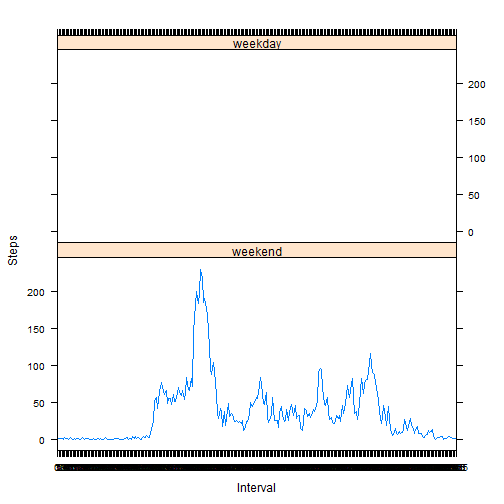
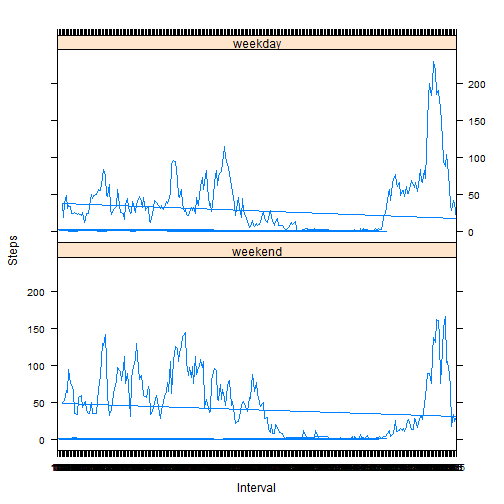
Latest changes

diff --git a/PA1_template.html b/PA1_template.html
@@ -207,7 +207,7 @@ hist(x, breaks = 10, col = &quot;yellow&quot;)
 
 <pre><code class="r">intv &lt;- as.factor(activity.complete.df[, &quot;interval&quot;])
 intv.mean &lt;- tapply(activity.complete.df[, &quot;steps&quot;], intv, mean)
-plot(x = unique(intv), y = intv.mean, type = &quot;l&quot;)
+plot(x = unique(intv), y = intv.mean, type = &quot;l&quot;, cex = 2)
 </code></pre>
 
[1 lines of base64/hex data omitted]
@@ -251,20 +251,27 @@ daytype &lt;- function(date.in) {
 activity.df &lt;- cbind(activity.df, datetype = sapply(activity.df[, &quot;date&quot;], daytype))
 l &lt;- split(activity.df, activity.df[, &quot;datetype&quot;])
 
+# Calculate weekday average of steps
+weekday.mean &lt;- tapply(l[[&quot;weekday&quot;]][, &quot;steps&quot;], as.factor(l[[&quot;weekday&quot;]][, 
+    &quot;interval&quot;]), mean)
+# Calculate weekend average of steps
+weekend.mean &lt;- tapply(l[[&quot;weekend&quot;]][, &quot;steps&quot;], as.factor(l[[&quot;weekend&quot;]][, 
+    &quot;interval&quot;]), mean)
 
-
-x &lt;- as.factor(l[[1]][, &quot;interval&quot;])
-y &lt;- tapply(l[[1]][, &quot;steps&quot;], x, mean)
+u &lt;- data.frame(interval = rownames(weekend.mean), mean.steps = as.vector(weekend.mean), 
+    datetype = &quot;weekend&quot;)
+v &lt;- data.frame(interval = rownames(weekday.mean), mean.steps = as.vector(weekday.mean), 
+    datetype = &quot;weekday&quot;)
+alldays.df &lt;- rbind(u, v)
 
 
 library(lattice)
 
-
-f &lt;- factor(activity.df[, &quot;datetype&quot;], labels = c(&quot;weekend&quot;, &quot;weekday&quot;))
-xyplot(y ~ unique(x) | f, layout = c(1, 2), type = &quot;l&quot;, xlab = &quot;Interval&quot;, ylab = &quot;Steps&quot;)
+xyplot(mean.steps ~ interval | datetype, data = alldays.df, layout = c(1, 2), 
+    type = &quot;l&quot;, xlab = &quot;Interval&quot;, ylab = &quot;Steps&quot;)
 </code></pre>
 
[2 lines of base64/hex data omitted]
 
 </body>
 

diff --git a/PA1_template.md b/PA1_template.md
@@ -41,7 +41,7 @@ Median of steps taken per day : 10765
 ```r
 intv <- as.factor(activity.complete.df[, "interval"])
 intv.mean <- tapply(activity.complete.df[, "steps"], intv, mean)
-plot(x = unique(intv), y = intv.mean, type = "l")
+plot(x = unique(intv), y = intv.mean, type = "l", cex = 2)
 ```
 
 ![plot of chunk unnamed-chunk-3](figure/unnamed-chunk-3.png) 
@@ -89,17 +89,24 @@ daytype <- function(date.in) {
 activity.df <- cbind(activity.df, datetype = sapply(activity.df[, "date"], daytype))
 l <- split(activity.df, activity.df[, "datetype"])
 
+# Calculate weekday average of steps
+weekday.mean <- tapply(l[["weekday"]][, "steps"], as.factor(l[["weekday"]][, 
+    "interval"]), mean)
+# Calculate weekend average of steps
+weekend.mean <- tapply(l[["weekend"]][, "steps"], as.factor(l[["weekend"]][, 
+    "interval"]), mean)
 
-
-x <- as.factor(l[[1]][, "interval"])
-y <- tapply(l[[1]][, "steps"], x, mean)
+u <- data.frame(interval = rownames(weekend.mean), mean.steps = as.vector(weekend.mean), 
+    datetype = "weekend")
+v <- data.frame(interval = rownames(weekday.mean), mean.steps = as.vector(weekday.mean), 
+    datetype = "weekday")
+alldays.df <- rbind(u, v)
 
 
 library(lattice)
 
-
-f <- factor(activity.df[, "datetype"], labels = c("weekend", "weekday"))
-xyplot(y ~ unique(x) | f, layout = c(1, 2), type = "l", xlab = "Interval", ylab = "Steps")
+xyplot(mean.steps ~ interval | datetype, data = alldays.df, layout = c(1, 2), 
+    type = "l", xlab = "Interval", ylab = "Steps")
 ```
 
 ![plot of chunk unnamed-chunk-5](figure/unnamed-chunk-5.png) 
